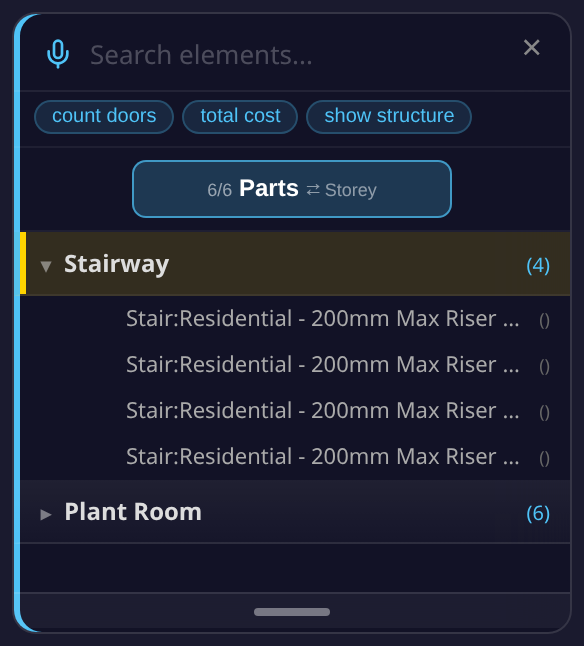
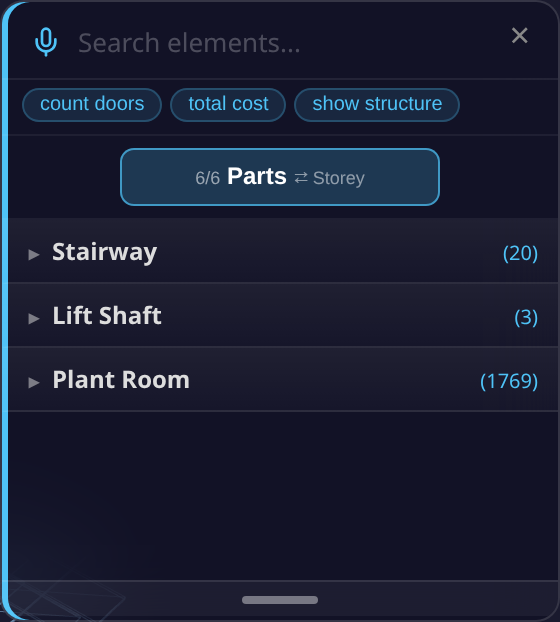
docs(viewer): swap Parts-axis screenshot to HHS (real institutional data, post-fix)
The Duplex screenshot predated bim-ootb PR #740/#742 (word-boundary + class-gate
fix) and showed the pre-fix false-positive behavior. Replaced with a real capture
on HHS Office (complex-class): Stairway(20), Lift Shaft(3), Plant Room(1769) all
visible at once, and updated the caveat note now that the fix is landed.

Changed region(s): [[0.0, 0.0, 1.0, 1.0], [0.8804, 0.7637, 0.9411, 0.8248], [0.9107, 0.7026, 0.9411, 0.7331]]

diff --git a/docs/BIMUserGuide.md b/docs/BIMUserGuide.md
@@ -196,14 +196,14 @@ has that kind of data (no data, no empty axis):
 | **Phase** | Only if a construction timeline can be generated for the building | Elements grouped by construction phase/task, generated on the fly (a short "Timeline generating…" message appears first). |
 | **Parts** *(new)* | Only if the building has stairway, lift-shaft, or plant-room elements | Elements grouped into up to three building-part categories: **Stairway** (stair/ramp classes), **Lift Shaft** (elements named for lifts/elevators), **Plant Room** (HVAC-plant elements — vents, ducts, fans, AHUs, dampers, chillers, pumps). Each category is itself data-gated — it only appears if the building actually has a match. Tapping a category, or a single item inside it, isolates it in the 3D view (hides the rest of the model). |
 
-  ![The axis toggle cycled to Parts on Duplex ("6/6 Parts"), Stairway expanded to its 4 real stair-flight elements, with the data-gated Plant Room group below it (Duplex has no Lift Shaft matches, so that group is correctly absent)](img/viewer/find-axis-parts.png)
+  ![The axis toggle cycled to Parts on HHS Office ("6/6 Parts"), a real institutional-scale building showing all three categories at once: Stairway (20), Lift Shaft (3), and Plant Room (1769) — Plant Room only appears on complex-class buildings like this one, never on a residential building like Duplex](img/viewer/find-axis-parts.png)
 
 > The Parts axis is the newest addition (bim-ootb `d04ddd5`) — see
 > `prompts/VIEWER_FIND_PANEL_PARTS_VERIFICATION.md` for its live verification on Duplex/SampleCastle data.
-> A separate, filed finding (`prompts/FIND_PANEL_PLANT_ROOM_GATE_FIX.md`, not yet fixed as of this
-> writing) notes the live Plant Room group can currently include false-positive matches on some
-> buildings and isn't yet gated to complex-class buildings the way the offline taxonomy checker is —
-> the count shown for Plant Room may not be 100% precise until that fix lands.
+> A false-positive/missing-class-gate bug found after that verification (`prompts/FIND_PANEL_PLANT_ROOM_GATE_FIX.md`)
+> is now fixed (bim-ootb PR #740/#742) — Plant Room only shows on `complex`-class buildings (Terminal,
+> Clinic, Hospital, HHS), never on residential ones, and its keyword match is word-boundary-checked to
+> avoid substring false positives like "Backflow Preventer" matching "vent".
 
 *Not yet confirmed from source, flagged rather than guessed:* the exact on-screen wording of the axis
 toggle's next-axis hint on narrow/mobile screens, and whether the typed-language decoder mentioned above
